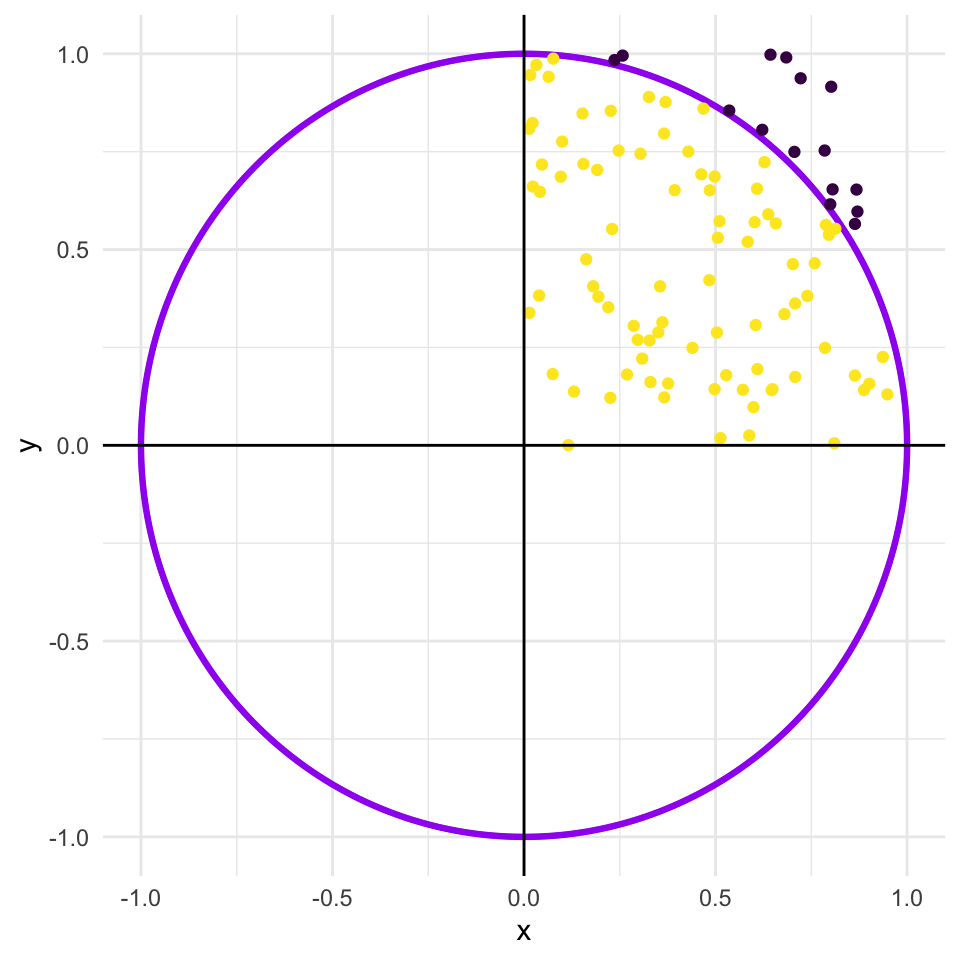
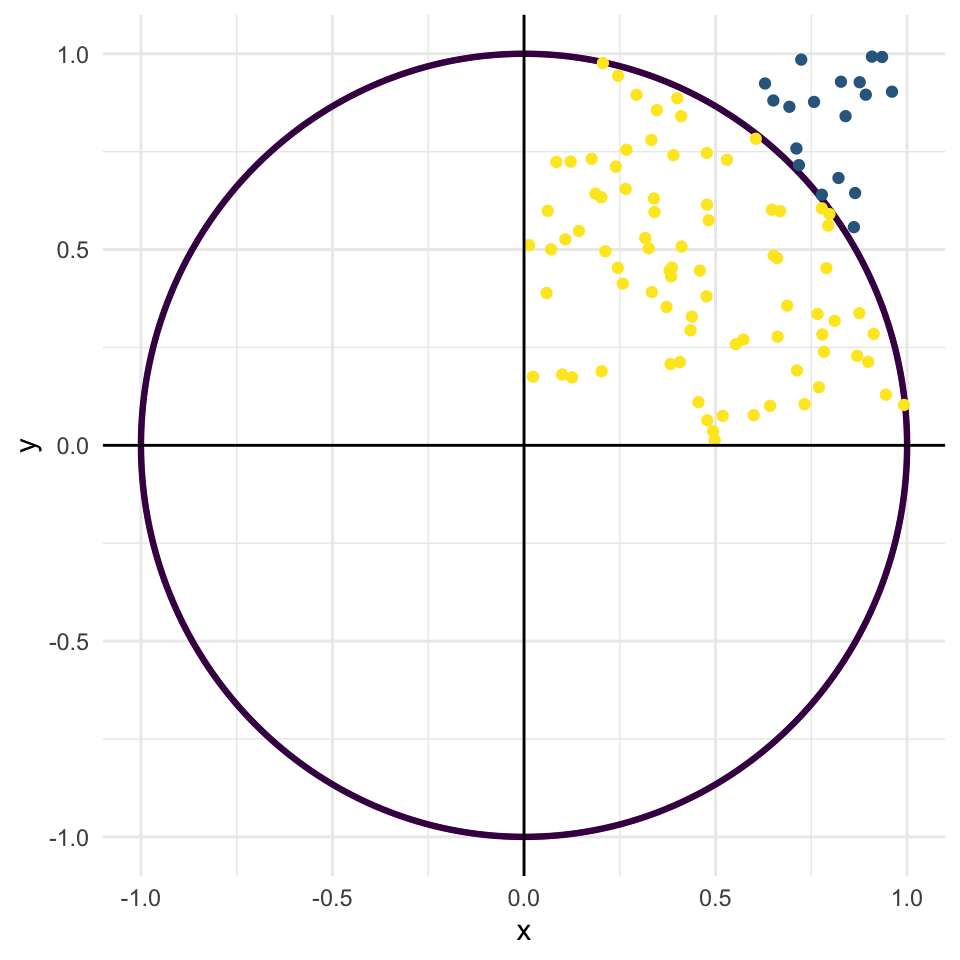
Removed interactive graph Added zoomed in graph Added external hexagon diagram

diff --git a/public/posts/estimate_pi/index.html b/public/posts/estimate_pi/index.html
@@ -114,7 +114,7 @@
             </span>
             <span class="reading-time">
               <i class="fas fa-clock"></i>
-              3 minutes read
+              4 minutes read
             </span>
           </div>
           
@@ -124,20 +124,13 @@
 
       <div>
         
-<script src="/rmarkdown-libs/htmlwidgets/htmlwidgets.js"></script>
-<script src="/rmarkdown-libs/plotly-binding/plotly.js"></script>
-<script src="/rmarkdown-libs/typedarray/typedarray.min.js"></script>
-<script src="/rmarkdown-libs/jquery/jquery.min.js"></script>
-<link href="/rmarkdown-libs/crosstalk/css/crosstalk.css" rel="stylesheet" />
-<script src="/rmarkdown-libs/crosstalk/js/crosstalk.min.js"></script>
-<link href="/rmarkdown-libs/plotly-htmlwidgets-css/plotly-htmlwidgets.css" rel="stylesheet" />
-<script src="/rmarkdown-libs/plotly-main/plotly-latest.min.js"></script>
 
 <div id="TOC">
 <ul>
 <li><a href="#archimedes-estimate"><span class="toc-section-number">1</span> Archimedes’ estimate</a></li>
 <li><a href="#rchimedes-estimate"><span class="toc-section-number">2</span> <strong>R</strong>chimedes’ estimate</a></li>
-<li><a href="#knowing-vs.understanding"><span class="toc-section-number">3</span> Knowing vs. Understanding</a></li>
+<li><a href="#can-we-beat-a-guy-whose-been-dead-for-2000-years"><span class="toc-section-number">3</span> Can we beat a guy whose been dead for 2000 years?</a></li>
+<li><a href="#knowing-vs.understanding"><span class="toc-section-number">4</span> Knowing vs. Understanding</a></li>
 </ul>
 </div>
 
@@ -154,9 +147,29 @@ div#TOC li {
 <p>My two favourite sections invovled Storgatz recounting how Archimedes discovered the formula for the area of a circle and how he estimated <span class="math inline">\(\pi\)</span>. This post will only cover the latter. The reason being that there’s a popular data science interview question which requires the applicant to estimate <span class="math inline">\(\pi\)</span>. So, I thought it would be fun to compare Archimedes’ estimate to what I’ll be (shamelessly and repeatedly) calling <strong>R</strong>chimedes’ estimate.</p>
 <div id="archimedes-estimate" class="section level1">
 <h1><span class="header-section-number">1</span> Archimedes’ estimate</h1>
+<p><span class="math inline">\(\pi\)</span> is defined as the ratio between the circumference and diameter of a circle</p>
+<p><span class="math display">\[\pi = \frac{C}{d}\]</span></p>
+<p>We know that the diameter is twice the radius:</p>
+<p><span class="math display">\[d = 2r\]</span></p>
+<p>So, we know that we can write:</p>
+<p><span class="math display">\[\pi = \frac{C}{2r}\]</span></p>
+<p>What we need is an estimate for C.</p>
+<p>If we approximate the circumference of a circle using a hexagon inside it (as shown in the image below), then we know that (because a hexagon is 6 equilateral triangles) the distance around the edge of the hexagon (in bold) is <span class="math inline">\(6r\)</span>.</p>
 <center>
-<img src="/images/estimate_pi.png" alt="Archimedes’ first step" />
+<img src="/images/pi_hexagon_in.png" alt="Internal hexagon for lower bound." />
 </center>
+<p>So, if we know that 6 times the radius is an underestimate of the circumference of the circle, then we can write:</p>
+<p><span class="math display">\[C &gt; 6r\]</span></p>
+<p>If we substitue this into our previous formula for <span class="math inline">\(\pi\)</span> we get:</p>
+<p><span class="math display">\[\pi = \frac{C}{2r} &gt; \frac{6r}{2r} = 3\]</span></p>
+<p>In other words, we get a lower bound for the true value of <span class="math inline">\(\pi\)</span>. We know it must be larger than 3.</p>
+<p>If you carry out the same process with a hexagon that is outside the circle, then we can get an upper bound for <span class="math inline">\(\pi\)</span>.</p>
+<center>
+<img src="/images/pi_hexagon_out.png" alt="External hexagon for upper bound" />
+</center>
+<p>Staggeringly, Archimedes carried out a process equivalent to the one we just played through with a hexagon on a 96-sided shape and found the following interval:</p>
+<p><span class="math display">\[3\frac{10}{70} &lt; \pi &lt; 3\frac{10}{71}\]</span></p>
+<p>This means he found <span class="math inline">\(\pi\)</span> correct to 2 decimal places, <span class="math inline">\(3.14\)</span>, which is as much precision as most people know <span class="math inline">\(\pi\)</span> to nowadays.</p>
 </div>
 <div id="rchimedes-estimate" class="section level1">
 <h1><span class="header-section-number">2</span> <strong>R</strong>chimedes’ estimate</h1>
@@ -181,22 +194,25 @@ div#TOC li {
 <p><img src="/posts/estimate_pi_files/figure-html/unnamed-chunk-3-1.png" width="480" style="display: block; margin: auto;" /></p>
 <p>Now, if we superimpose our random pairs of coordinates onto our circle with radius 1:</p>
 <p><img src="/posts/estimate_pi_files/figure-html/unnamed-chunk-4-1.png" width="480" style="display: block; margin: auto;" /></p>
-<p>Hopefully the plan is starting to become clear. We need to calculate the proportion of random points that are inside the circle.</p>
+<p>Hopefully the plan is starting to become clear.</p>
+<p>We need to calculate the proportion of random points that are inside the circle.</p>
 <p><img src="/posts/estimate_pi_files/figure-html/unnamed-chunk-5-1.png" width="480" style="display: block; margin: auto;" /></p>
-<p>In this instance, the proportion of our random points that fall inside the circle is 0.85.</p>
-<p>So, to find an estimate for the area of the circle (which we know to be <span class="math inline">\(\pi\)</span>) all we have to do is multiply that proportion by 4. In this case, our estimate for <span class="math inline">\(\pi\)</span> turns out to be 3.4.</p>
-<p>That’s an ok estimate but what if we wanted a greater degree of accuracy. All we need to do is use a greater number of random points.</p>
+<p>In this instance, the proportion of our random points that fall inside the circle is 0.82.</p>
+<p>So, to find an estimate for the area of the circle (which we know to be <span class="math inline">\(\pi\)</span>) all we have to do is multiply that proportion by 4. In this case, our estimate for <span class="math inline">\(\pi\)</span> turns out to be 3.28.</p>
+<p>That’s an ok estimate but, what if we want a greater degree of accuracy? All we need to do is use more random points.</p>
 <p>Say we ran through the whole process again but this time with 1000 points:</p>
 <p><img src="/posts/estimate_pi_files/figure-html/unnamed-chunk-7-1.png" width="480" style="display: block; margin: auto;" /></p>
-<p>Now, the proportion of points inside the circle is 0.785 giving us an estimate for <span class="math inline">\(\pi\)</span> of 3.14.</p>
+<p>Now, the proportion of points inside the circle is 0.787 giving us an estimate for <span class="math inline">\(\pi\)</span> of 3.148. <code>R</code> provides the value of <span class="math inline">\(\pi\)</span> to 6 decimal places as 3.1415927. We’re getting closer.</p>
+</div>
+<div id="can-we-beat-a-guy-whose-been-dead-for-2000-years" class="section level1">
+<h1><span class="header-section-number">3</span> Can we beat a guy whose been dead for 2000 years?</h1>
 <p>How many random points do we need before we are more accurate than Archimedes?</p>
 <p>Lets try a few different powers of 10.</p>
-<p><img src="/posts/estimate_pi_files/figure-html/unnamed-chunk-10-1.png" width="776.64" style="display: block; margin: auto;" /><img src="/posts/estimate_pi_files/figure-html/unnamed-chunk-10-2.png" width="776.64" style="display: block; margin: auto;" /></p>
-<div id="htmlwidget-1" style="width:776.64px;height:480px;" class="plotly html-widget"></div>
-<script type="application/json" data-for="htmlwidget-1">{"x":{"visdat":{"eb2b3600696b":["function () ","plotlyVisDat"]},"cur_data":"eb2b3600696b","attrs":{"eb2b3600696b":{"x":{},"y":{},"text":{},"hoverinfo":"text","color":{},"colors":["#FDE725FF","#35B779FF","#31688EFF","#440154FF"],"alpha_stroke":1,"sizes":[10,100],"spans":[1,20],"type":"scatter","mode":"markers","symbol":{},"showlegend":false,"inherit":true},"eb2b3600696b.1":{"x":{},"y":{},"text":{},"hoverinfo":"text","color":{},"colors":["#FDE725FF","#35B779FF","#31688EFF","#440154FF"],"alpha_stroke":1,"sizes":[10,100],"spans":[1,20],"type":"scatter","mode":"lines","showlegend":false,"inherit":true}},"layout":{"margin":{"b":40,"l":60,"t":25,"r":10},"xaxis":{"domain":[0,1],"automargin":true,"title":"Number of Points","type":"log"},"yaxis":{"domain":[0,1],"automargin":true,"title":"Value"},"hovermode":"closest","showlegend":false},"source":"A","config":{"showSendToCloud":false},"data":[{"x":[100,1000,10000,100000,1000000,10000000],"y":[3.28,3.164,3.1196,3.14468,3.144292,3.140718],"text":["attempt_1: 3.28","attempt_1: 3.164","attempt_1: 3.1196","attempt_1: 3.14468","attempt_1: 3.144292","attempt_1: 3.140718"],"hoverinfo":["text","text","text","text","text","text"],"type":"scatter","mode":"markers","showlegend":false,"name":"attempt_1","marker":{"color":"rgba(253,231,37,1)","symbol":"circle","line":{"color":"rgba(253,231,37,1)"}},"textfont":{"color":"rgba(253,231,37,1)"},"error_y":{"color":"rgba(253,231,37,1)"},"error_x":{"color":"rgba(253,231,37,1)"},"line":{"color":"rgba(253,231,37,1)"},"xaxis":"x","yaxis":"y","frame":null},{"x":[100,1000,10000,100000,1000000,10000000],"y":[3.16,3.104,3.1504,3.141,3.143028,3.1419128],"text":["attempt_2: 3.16","attempt_2: 3.104","attempt_2: 3.1504","attempt_2: 3.141","attempt_2: 3.143028","attempt_2: 3.1419128"],"hoverinfo":["text","text","text","text","text","text"],"type":"scatter","mode":"markers","showlegend":false,"name":"attempt_2","marker":{"color":"rgba(53,183,121,1)","symbol":"triangle-up","line":{"color":"rgba(53,183,121,1)"}},"textfont":{"color":"rgba(53,183,121,1)"},"error_y":{"color":"rgba(53,183,121,1)"},"error_x":{"color":"rgba(53,183,121,1)"},"line":{"color":"rgba(53,183,121,1)"},"xaxis":"x","yaxis":"y","frame":null},{"x":[100,1000,10000,100000,1000000,10000000],"y":[2.76,3.148,3.1284,3.13748,3.139788,3.1416476],"text":["attempt_3: 2.76","attempt_3: 3.148","attempt_3: 3.1284","attempt_3: 3.13748","attempt_3: 3.139788","attempt_3: 3.1416476"],"hoverinfo":["text","text","text","text","text","text"],"type":"scatter","mode":"markers","showlegend":false,"name":"attempt_3","marker":{"color":"rgba(49,104,142,1)","symbol":"square","line":{"color":"rgba(49,104,142,1)"}},"textfont":{"color":"rgba(49,104,142,1)"},"error_y":{"color":"rgba(49,104,142,1)"},"error_x":{"color":"rgba(49,104,142,1)"},"line":{"color":"rgba(49,104,142,1)"},"xaxis":"x","yaxis":"y","frame":null},{"x":[100,1000,10000,100000,1000000,10000000],"y":[3.14159265358979,3.14159265358979,3.14159265358979,3.14159265358979,3.14159265358979,3.14159265358979],"text":["Pi: 3.14159265358979","Pi: 3.14159265358979","Pi: 3.14159265358979","Pi: 3.14159265358979","Pi: 3.14159265358979","Pi: 3.14159265358979"],"hoverinfo":["text","text","text","text","text","text"],"type":"scatter","mode":"markers","showlegend":false,"name":"Pi","marker":{"color":"rgba(68,1,84,1)","symbol":"cross-thin-open","line":{"color":"rgba(68,1,84,1)"}},"textfont":{"color":"rgba(68,1,84,1)"},"error_y":{"color":"rgba(68,1,84,1)"},"error_x":{"color":"rgba(68,1,84,1)"},"line":{"color":"rgba(68,1,84,1)"},"xaxis":"x","yaxis":"y","frame":null},{"x":[100,1000,10000,100000,1000000,10000000],"y":[3.28,3.164,3.1196,3.14468,3.144292,3.140718],"text":["attempt_1: 3.28","attempt_1: 3.164","attempt_1: 3.1196","attempt_1: 3.14468","attempt_1: 3.144292","attempt_1: 3.140718"],"hoverinfo":["text","text","text","text","text","text"],"type":"scatter","mode":"lines","showlegend":false,"name":"attempt_1","marker":{"color":"rgba(253,231,37,1)","line":{"color":"rgba(253,231,37,1)"}},"textfont":{"color":"rgba(253,231,37,1)"},"error_y":{"color":"rgba(253,231,37,1)"},"error_x":{"color":"rgba(253,231,37,1)"},"line":{"color":"rgba(253,231,37,1)"},"xaxis":"x","yaxis":"y","frame":null},{"x":[100,1000,10000,100000,1000000,10000000],"y":[3.16,3.104,3.1504,3.141,3.143028,3.1419128],"text":["attempt_2: 3.16","attempt_2: 3.104","attempt_2: 3.1504","attempt_2: 3.141","attempt_2: 3.143028","attempt_2: 3.1419128"],"hoverinfo":["text","text","text","text","text","text"],"type":"scatter","mode":"lines","showlegend":false,"name":"attempt_2","marker":{"color":"rgba(53,183,121,1)","line":{"color":"rgba(53,183,121,1)"}},"textfont":{"color":"rgba(53,183,121,1)"},"error_y":{"color":"rgba(53,183,121,1)"},"error_x":{"color":"rgba(53,183,121,1)"},"line":{"color":"rgba(53,183,121,1)"},"xaxis":"x","yaxis":"y","frame":null},{"x":[100,1000,10000,100000,1000000,10000000],"y":[2.76,3.148,3.1284,3.13748,3.139788,3.1416476],"text":["attempt_3: 2.76","attempt_3: 3.148","attempt_3: 3.1284","attempt_3: 3.13748","attempt_3: 3.139788","attempt_3: 3.1416476"],"hoverinfo":["text","text","text","text","text","text"],"type":"scatter","mode":"lines","showlegend":false,"name":"attempt_3","marker":{"color":"rgba(49,104,142,1)","line":{"color":"rgba(49,104,142,1)"}},"textfont":{"color":"rgba(49,104,142,1)"},"error_y":{"color":"rgba(49,104,142,1)"},"error_x":{"color":"rgba(49,104,142,1)"},"line":{"color":"rgba(49,104,142,1)"},"xaxis":"x","yaxis":"y","frame":null},{"x":[100,1000,10000,100000,1000000,10000000],"y":[3.14159265358979,3.14159265358979,3.14159265358979,3.14159265358979,3.14159265358979,3.14159265358979],"text":["Pi: 3.14159265358979","Pi: 3.14159265358979","Pi: 3.14159265358979","Pi: 3.14159265358979","Pi: 3.14159265358979","Pi: 3.14159265358979"],"hoverinfo":["text","text","text","text","text","text"],"type":"scatter","mode":"lines","showlegend":false,"name":"Pi","marker":{"color":"rgba(68,1,84,1)","line":{"color":"rgba(68,1,84,1)"}},"textfont":{"color":"rgba(68,1,84,1)"},"error_y":{"color":"rgba(68,1,84,1)"},"error_x":{"color":"rgba(68,1,84,1)"},"line":{"color":"rgba(68,1,84,1)"},"xaxis":"x","yaxis":"y","frame":null}],"highlight":{"on":"plotly_click","persistent":false,"dynamic":false,"selectize":false,"opacityDim":0.2,"selected":{"opacity":1},"debounce":0},"shinyEvents":["plotly_hover","plotly_click","plotly_selected","plotly_relayout","plotly_brushed","plotly_brushing","plotly_clickannotation","plotly_doubleclick","plotly_deselect","plotly_afterplot"],"base_url":"https://plot.ly"},"evals":[],"jsHooks":[]}</script>
+<p><img src="/posts/estimate_pi_files/figure-html/unnamed-chunk-11-1.png" width="776.64" style="display: block; margin: auto;" /></p>
+<p><img src="/posts/estimate_pi_files/figure-html/unnamed-chunk-12-1.png" width="776.64" style="display: block; margin: auto;" /></p>
 </div>
 <div id="knowing-vs.understanding" class="section level1">
-<h1><span class="header-section-number">3</span> Knowing vs. Understanding</h1>
+<h1><span class="header-section-number">4</span> Knowing vs. Understanding</h1>
 <p>About undersatdning vs. knowing.</p>
 <p>For a long time, definitely throughout all of school, all I really did was <em>know</em> stuff. Now, I want to <em>understand</em> stuff. And even if that means there’s less stuff involved, I’m fine with that. Value of understanding is that you begin to see connections between seemingly disparate points of <em>knowledge</em>.</p>
 </div>

diff --git a/content/posts/estimate_pi.html b/content/posts/estimate_pi.html
@@ -13,20 +13,13 @@ output:
     number_sections: true
 ---
 
-<script src="/rmarkdown-libs/htmlwidgets/htmlwidgets.js"></script>
-<script src="/rmarkdown-libs/plotly-binding/plotly.js"></script>
-<script src="/rmarkdown-libs/typedarray/typedarray.min.js"></script>
-<script src="/rmarkdown-libs/jquery/jquery.min.js"></script>
-<link href="/rmarkdown-libs/crosstalk/css/crosstalk.css" rel="stylesheet" />
-<script src="/rmarkdown-libs/crosstalk/js/crosstalk.min.js"></script>
-<link href="/rmarkdown-libs/plotly-htmlwidgets-css/plotly-htmlwidgets.css" rel="stylesheet" />
-<script src="/rmarkdown-libs/plotly-main/plotly-latest.min.js"></script>
 
 <div id="TOC">
 <ul>
 <li><a href="#archimedes-estimate"><span class="toc-section-number">1</span> Archimedes’ estimate</a></li>
 <li><a href="#rchimedes-estimate"><span class="toc-section-number">2</span> <strong>R</strong>chimedes’ estimate</a></li>
-<li><a href="#knowing-vs.understanding"><span class="toc-section-number">3</span> Knowing vs. Understanding</a></li>
+<li><a href="#can-we-beat-a-guy-whose-been-dead-for-2000-years"><span class="toc-section-number">3</span> Can we beat a guy whose been dead for 2000 years?</a></li>
+<li><a href="#knowing-vs.understanding"><span class="toc-section-number">4</span> Knowing vs. Understanding</a></li>
 </ul>
 </div>
 
@@ -43,9 +36,29 @@ div#TOC li {
 <p>My two favourite sections invovled Storgatz recounting how Archimedes discovered the formula for the area of a circle and how he estimated <span class="math inline">\(\pi\)</span>. This post will only cover the latter. The reason being that there’s a popular data science interview question which requires the applicant to estimate <span class="math inline">\(\pi\)</span>. So, I thought it would be fun to compare Archimedes’ estimate to what I’ll be (shamelessly and repeatedly) calling <strong>R</strong>chimedes’ estimate.</p>
 <div id="archimedes-estimate" class="section level1">
 <h1><span class="header-section-number">1</span> Archimedes’ estimate</h1>
+<p><span class="math inline">\(\pi\)</span> is defined as the ratio between the circumference and diameter of a circle</p>
+<p><span class="math display">\[\pi = \frac{C}{d}\]</span></p>
+<p>We know that the diameter is twice the radius:</p>
+<p><span class="math display">\[d = 2r\]</span></p>
+<p>So, we know that we can write:</p>
+<p><span class="math display">\[\pi = \frac{C}{2r}\]</span></p>
+<p>What we need is an estimate for C.</p>
+<p>If we approximate the circumference of a circle using a hexagon inside it (as shown in the image below), then we know that (because a hexagon is 6 equilateral triangles) the distance around the edge of the hexagon (in bold) is <span class="math inline">\(6r\)</span>.</p>
 <center>
-<img src="/images/estimate_pi.png" alt="Archimedes’ first step" />
+<img src="/images/pi_hexagon_in.png" alt="Internal hexagon for lower bound." />
 </center>
+<p>So, if we know that 6 times the radius is an underestimate of the circumference of the circle, then we can write:</p>
+<p><span class="math display">\[C &gt; 6r\]</span></p>
+<p>If we substitue this into our previous formula for <span class="math inline">\(\pi\)</span> we get:</p>
+<p><span class="math display">\[\pi = \frac{C}{2r} &gt; \frac{6r}{2r} = 3\]</span></p>
+<p>In other words, we get a lower bound for the true value of <span class="math inline">\(\pi\)</span>. We know it must be larger than 3.</p>
+<p>If you carry out the same process with a hexagon that is outside the circle, then we can get an upper bound for <span class="math inline">\(\pi\)</span>.</p>
+<center>
+<img src="/images/pi_hexagon_out.png" alt="External hexagon for upper bound" />
+</center>
+<p>Staggeringly, Archimedes carried out a process equivalent to the one we just played through with a hexagon on a 96-sided shape and found the following interval:</p>
+<p><span class="math display">\[3\frac{10}{70} &lt; \pi &lt; 3\frac{10}{71}\]</span></p>
+<p>This means he found <span class="math inline">\(\pi\)</span> correct to 2 decimal places, <span class="math inline">\(3.14\)</span>, which is as much precision as most people know <span class="math inline">\(\pi\)</span> to nowadays.</p>
 </div>
 <div id="rchimedes-estimate" class="section level1">
 <h1><span class="header-section-number">2</span> <strong>R</strong>chimedes’ estimate</h1>
@@ -70,22 +83,25 @@ div#TOC li {
 <p><img src="/posts/estimate_pi_files/figure-html/unnamed-chunk-3-1.png" width="480" style="display: block; margin: auto;" /></p>
 <p>Now, if we superimpose our random pairs of coordinates onto our circle with radius 1:</p>
 <p><img src="/posts/estimate_pi_files/figure-html/unnamed-chunk-4-1.png" width="480" style="display: block; margin: auto;" /></p>
-<p>Hopefully the plan is starting to become clear. We need to calculate the proportion of random points that are inside the circle.</p>
+<p>Hopefully the plan is starting to become clear.</p>
+<p>We need to calculate the proportion of random points that are inside the circle.</p>
 <p><img src="/posts/estimate_pi_files/figure-html/unnamed-chunk-5-1.png" width="480" style="display: block; margin: auto;" /></p>
-<p>In this instance, the proportion of our random points that fall inside the circle is 0.85.</p>
-<p>So, to find an estimate for the area of the circle (which we know to be <span class="math inline">\(\pi\)</span>) all we have to do is multiply that proportion by 4. In this case, our estimate for <span class="math inline">\(\pi\)</span> turns out to be 3.4.</p>
-<p>That’s an ok estimate but what if we wanted a greater degree of accuracy. All we need to do is use a greater number of random points.</p>
+<p>In this instance, the proportion of our random points that fall inside the circle is 0.82.</p>
+<p>So, to find an estimate for the area of the circle (which we know to be <span class="math inline">\(\pi\)</span>) all we have to do is multiply that proportion by 4. In this case, our estimate for <span class="math inline">\(\pi\)</span> turns out to be 3.28.</p>
+<p>That’s an ok estimate but, what if we want a greater degree of accuracy? All we need to do is use more random points.</p>
 <p>Say we ran through the whole process again but this time with 1000 points:</p>
 <p><img src="/posts/estimate_pi_files/figure-html/unnamed-chunk-7-1.png" width="480" style="display: block; margin: auto;" /></p>
-<p>Now, the proportion of points inside the circle is 0.785 giving us an estimate for <span class="math inline">\(\pi\)</span> of 3.14.</p>
+<p>Now, the proportion of points inside the circle is 0.787 giving us an estimate for <span class="math inline">\(\pi\)</span> of 3.148. <code>R</code> provides the value of <span class="math inline">\(\pi\)</span> to 6 decimal places as 3.1415927. We’re getting closer.</p>
+</div>
+<div id="can-we-beat-a-guy-whose-been-dead-for-2000-years" class="section level1">
+<h1><span class="header-section-number">3</span> Can we beat a guy whose been dead for 2000 years?</h1>
 <p>How many random points do we need before we are more accurate than Archimedes?</p>
 <p>Lets try a few different powers of 10.</p>
-<p><img src="/posts/estimate_pi_files/figure-html/unnamed-chunk-10-1.png" width="776.64" style="display: block; margin: auto;" /><img src="/posts/estimate_pi_files/figure-html/unnamed-chunk-10-2.png" width="776.64" style="display: block; margin: auto;" /></p>
-<div id="htmlwidget-1" style="width:776.64px;height:480px;" class="plotly html-widget"></div>
-<script type="application/json" data-for="htmlwidget-1">{"x":{"visdat":{"eb2b3600696b":["function () ","plotlyVisDat"]},"cur_data":"eb2b3600696b","attrs":{"eb2b3600696b":{"x":{},"y":{},"text":{},"hoverinfo":"text","color":{},"colors":["#FDE725FF","#35B779FF","#31688EFF","#440154FF"],"alpha_stroke":1,"sizes":[10,100],"spans":[1,20],"type":"scatter","mode":"markers","symbol":{},"showlegend":false,"inherit":true},"eb2b3600696b.1":{"x":{},"y":{},"text":{},"hoverinfo":"text","color":{},"colors":["#FDE725FF","#35B779FF","#31688EFF","#440154FF"],"alpha_stroke":1,"sizes":[10,100],"spans":[1,20],"type":"scatter","mode":"lines","showlegend":false,"inherit":true}},"layout":{"margin":{"b":40,"l":60,"t":25,"r":10},"xaxis":{"domain":[0,1],"automargin":true,"title":"Number of Points","type":"log"},"yaxis":{"domain":[0,1],"automargin":true,"title":"Value"},"hovermode":"closest","showlegend":false},"source":"A","config":{"showSendToCloud":false},"data":[{"x":[100,1000,10000,100000,1000000,10000000],"y":[3.28,3.164,3.1196,3.14468,3.144292,3.140718],"text":["attempt_1: 3.28","attempt_1: 3.164","attempt_1: 3.1196","attempt_1: 3.14468","attempt_1: 3.144292","attempt_1: 3.140718"],"hoverinfo":["text","text","text","text","text","text"],"type":"scatter","mode":"markers","showlegend":false,"name":"attempt_1","marker":{"color":"rgba(253,231,37,1)","symbol":"circle","line":{"color":"rgba(253,231,37,1)"}},"textfont":{"color":"rgba(253,231,37,1)"},"error_y":{"color":"rgba(253,231,37,1)"},"error_x":{"color":"rgba(253,231,37,1)"},"line":{"color":"rgba(253,231,37,1)"},"xaxis":"x","yaxis":"y","frame":null},{"x":[100,1000,10000,100000,1000000,10000000],"y":[3.16,3.104,3.1504,3.141,3.143028,3.1419128],"text":["attempt_2: 3.16","attempt_2: 3.104","attempt_2: 3.1504","attempt_2: 3.141","attempt_2: 3.143028","attempt_2: 3.1419128"],"hoverinfo":["text","text","text","text","text","text"],"type":"scatter","mode":"markers","showlegend":false,"name":"attempt_2","marker":{"color":"rgba(53,183,121,1)","symbol":"triangle-up","line":{"color":"rgba(53,183,121,1)"}},"textfont":{"color":"rgba(53,183,121,1)"},"error_y":{"color":"rgba(53,183,121,1)"},"error_x":{"color":"rgba(53,183,121,1)"},"line":{"color":"rgba(53,183,121,1)"},"xaxis":"x","yaxis":"y","frame":null},{"x":[100,1000,10000,100000,1000000,10000000],"y":[2.76,3.148,3.1284,3.13748,3.139788,3.1416476],"text":["attempt_3: 2.76","attempt_3: 3.148","attempt_3: 3.1284","attempt_3: 3.13748","attempt_3: 3.139788","attempt_3: 3.1416476"],"hoverinfo":["text","text","text","text","text","text"],"type":"scatter","mode":"markers","showlegend":false,"name":"attempt_3","marker":{"color":"rgba(49,104,142,1)","symbol":"square","line":{"color":"rgba(49,104,142,1)"}},"textfont":{"color":"rgba(49,104,142,1)"},"error_y":{"color":"rgba(49,104,142,1)"},"error_x":{"color":"rgba(49,104,142,1)"},"line":{"color":"rgba(49,104,142,1)"},"xaxis":"x","yaxis":"y","frame":null},{"x":[100,1000,10000,100000,1000000,10000000],"y":[3.14159265358979,3.14159265358979,3.14159265358979,3.14159265358979,3.14159265358979,3.14159265358979],"text":["Pi: 3.14159265358979","Pi: 3.14159265358979","Pi: 3.14159265358979","Pi: 3.14159265358979","Pi: 3.14159265358979","Pi: 3.14159265358979"],"hoverinfo":["text","text","text","text","text","text"],"type":"scatter","mode":"markers","showlegend":false,"name":"Pi","marker":{"color":"rgba(68,1,84,1)","symbol":"cross-thin-open","line":{"color":"rgba(68,1,84,1)"}},"textfont":{"color":"rgba(68,1,84,1)"},"error_y":{"color":"rgba(68,1,84,1)"},"error_x":{"color":"rgba(68,1,84,1)"},"line":{"color":"rgba(68,1,84,1)"},"xaxis":"x","yaxis":"y","frame":null},{"x":[100,1000,10000,100000,1000000,10000000],"y":[3.28,3.164,3.1196,3.14468,3.144292,3.140718],"text":["attempt_1: 3.28","attempt_1: 3.164","attempt_1: 3.1196","attempt_1: 3.14468","attempt_1: 3.144292","attempt_1: 3.140718"],"hoverinfo":["text","text","text","text","text","text"],"type":"scatter","mode":"lines","showlegend":false,"name":"attempt_1","marker":{"color":"rgba(253,231,37,1)","line":{"color":"rgba(253,231,37,1)"}},"textfont":{"color":"rgba(253,231,37,1)"},"error_y":{"color":"rgba(253,231,37,1)"},"error_x":{"color":"rgba(253,231,37,1)"},"line":{"color":"rgba(253,231,37,1)"},"xaxis":"x","yaxis":"y","frame":null},{"x":[100,1000,10000,100000,1000000,10000000],"y":[3.16,3.104,3.1504,3.141,3.143028,3.1419128],"text":["attempt_2: 3.16","attempt_2: 3.104","attempt_2: 3.1504","attempt_2: 3.141","attempt_2: 3.143028","attempt_2: 3.1419128"],"hoverinfo":["text","text","text","text","text","text"],"type":"scatter","mode":"lines","showlegend":false,"name":"attempt_2","marker":{"color":"rgba(53,183,121,1)","line":{"color":"rgba(53,183,121,1)"}},"textfont":{"color":"rgba(53,183,121,1)"},"error_y":{"color":"rgba(53,183,121,1)"},"error_x":{"color":"rgba(53,183,121,1)"},"line":{"color":"rgba(53,183,121,1)"},"xaxis":"x","yaxis":"y","frame":null},{"x":[100,1000,10000,100000,1000000,10000000],"y":[2.76,3.148,3.1284,3.13748,3.139788,3.1416476],"text":["attempt_3: 2.76","attempt_3: 3.148","attempt_3: 3.1284","attempt_3: 3.13748","attempt_3: 3.139788","attempt_3: 3.1416476"],"hoverinfo":["text","text","text","text","text","text"],"type":"scatter","mode":"lines","showlegend":false,"name":"attempt_3","marker":{"color":"rgba(49,104,142,1)","line":{"color":"rgba(49,104,142,1)"}},"textfont":{"color":"rgba(49,104,142,1)"},"error_y":{"color":"rgba(49,104,142,1)"},"error_x":{"color":"rgba(49,104,142,1)"},"line":{"color":"rgba(49,104,142,1)"},"xaxis":"x","yaxis":"y","frame":null},{"x":[100,1000,10000,100000,1000000,10000000],"y":[3.14159265358979,3.14159265358979,3.14159265358979,3.14159265358979,3.14159265358979,3.14159265358979],"text":["Pi: 3.14159265358979","Pi: 3.14159265358979","Pi: 3.14159265358979","Pi: 3.14159265358979","Pi: 3.14159265358979","Pi: 3.14159265358979"],"hoverinfo":["text","text","text","text","text","text"],"type":"scatter","mode":"lines","showlegend":false,"name":"Pi","marker":{"color":"rgba(68,1,84,1)","line":{"color":"rgba(68,1,84,1)"}},"textfont":{"color":"rgba(68,1,84,1)"},"error_y":{"color":"rgba(68,1,84,1)"},"error_x":{"color":"rgba(68,1,84,1)"},"line":{"color":"rgba(68,1,84,1)"},"xaxis":"x","yaxis":"y","frame":null}],"highlight":{"on":"plotly_click","persistent":false,"dynamic":false,"selectize":false,"opacityDim":0.2,"selected":{"opacity":1},"debounce":0},"shinyEvents":["plotly_hover","plotly_click","plotly_selected","plotly_relayout","plotly_brushed","plotly_brushing","plotly_clickannotation","plotly_doubleclick","plotly_deselect","plotly_afterplot"],"base_url":"https://plot.ly"},"evals":[],"jsHooks":[]}</script>
+<p><img src="/posts/estimate_pi_files/figure-html/unnamed-chunk-11-1.png" width="776.64" style="display: block; margin: auto;" /></p>
+<p><img src="/posts/estimate_pi_files/figure-html/unnamed-chunk-12-1.png" width="776.64" style="display: block; margin: auto;" /></p>
 </div>
 <div id="knowing-vs.understanding" class="section level1">
-<h1><span class="header-section-number">3</span> Knowing vs. Understanding</h1>
+<h1><span class="header-section-number">4</span> Knowing vs. Understanding</h1>
 <p>About undersatdning vs. knowing.</p>
 <p>For a long time, definitely throughout all of school, all I really did was <em>know</em> stuff. Now, I want to <em>understand</em> stuff. And even if that means there’s less stuff involved, I’m fine with that. Value of understanding is that you begin to see connections between seemingly disparate points of <em>knowledge</em>.</p>
 </div>

diff --git a/public/tags/probability-and-statistics/index.html b/public/tags/probability-and-statistics/index.html
@@ -10,10 +10,10 @@
     <meta name="keywords" content="blog,data science,personal">
 
     <meta name="twitter:card" content="summary"/>
-<meta name="twitter:title" content="Probability and statistics"/>
+<meta name="twitter:title" content="Probability and Statistics"/>
 <meta name="twitter:description" content="Mitchel Fruin&#39;s personal website"/>
 
-    <meta property="og:title" content="Probability and statistics" />
+    <meta property="og:title" content="Probability and Statistics" />
 <meta property="og:description" content="Mitchel Fruin&#39;s personal website" />
 <meta property="og:type" content="website" />
 <meta property="og:url" content="/tags/probability-and-statistics/" />
@@ -24,7 +24,7 @@
     
       <base href="/tags/probability-and-statistics/">
     
-    <title>Tag: Probability and statistics · MitchThinks</title>
+    <title>Tag: Probability and Statistics · MitchThinks</title>
 
     
       <link rel="canonical" href="/tags/probability-and-statistics/">
@@ -98,7 +98,7 @@
       <div class="content">
         
   <section class="container list">
-  <h1 class="title">Tag: Probability and statistics</h1>
+  <h1 class="title">Tag: Probability and Statistics</h1>
   <ul>
     
     <li>

diff --git a/public/tags/index.html b/public/tags/index.html
@@ -103,7 +103,7 @@
     
     <li>
       <span class="date">Apr 19, 2020</span>
-      <a class="title" href="/tags/probability-and-statistics/">Probability and statistics</a>
+      <a class="title" href="/tags/probability-and-statistics/">Probability and Statistics</a>
     </li>
     
     <li>
